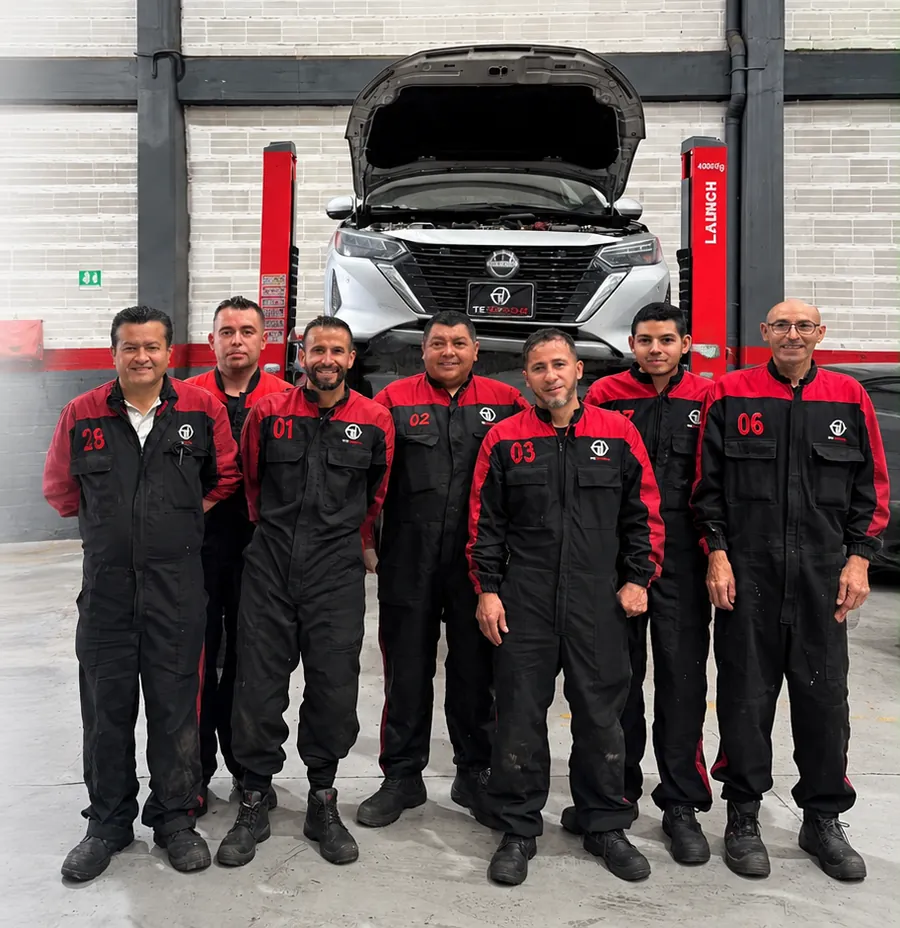
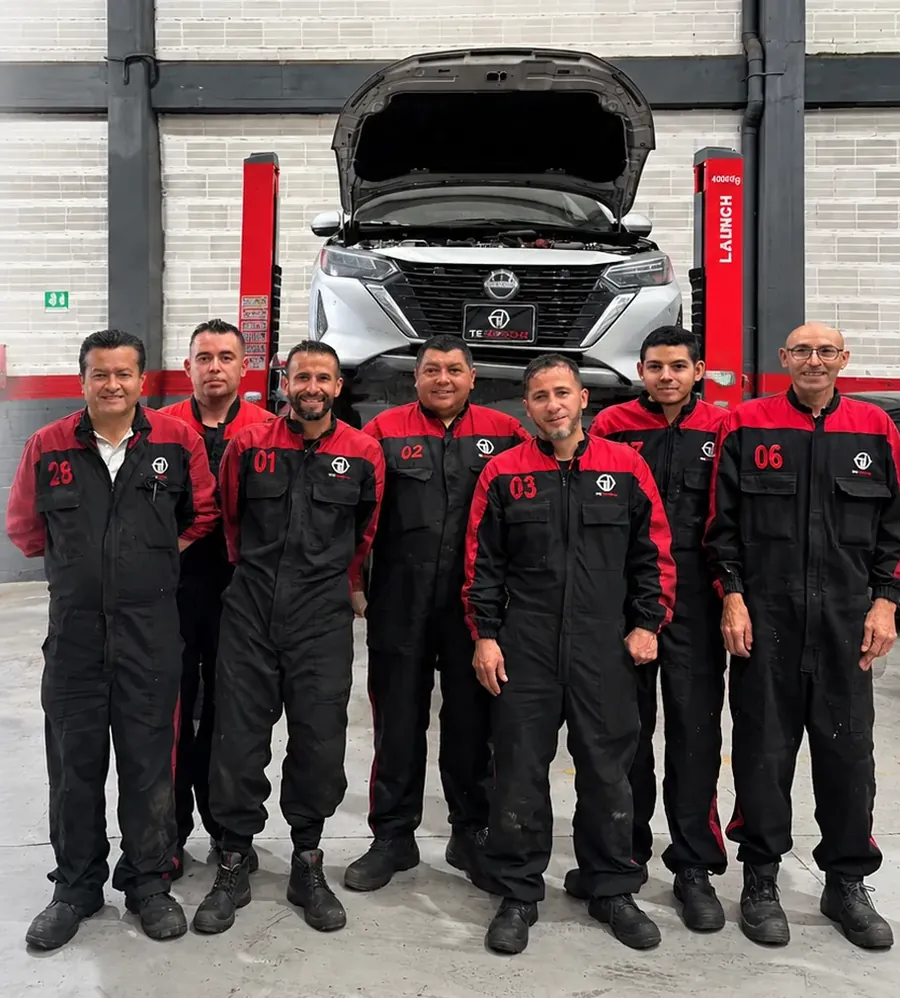
Equipo: fuera el velo del borde derecho, los dos lados iguales
Me habia pasado. El velo blanco dejaba el lado derecho mas claro que el
izquierdo, que no lleva ninguno, y por eso se veia mas difuminado.

Medi los dos bordes con el velo en cero y el derecho ya salia +16 mas
claro que el izquierdo: el promedio de 150 con el que calcule el velo
antes era solo a la altura de los cuerpos, donde esta el carro en sombra.
Sobre la banda entera no hacia falta aclarar nada.

Asi que el carro oscuro sale del recorte en vez de taparse con blanco,
que es la unica forma de que los dos bordes se vean igual: cualquier velo,
por suave que sea, deja ese lado mas claro. Tambien quito algo de pared
por la izquierda para que el grupo quede centrado.

El recorte nuevo sale de equipo-fondo.webp y no de la version chica: el
recorte movil viejo resulto ser (820,0)-(1800,1010) de la grande, hallado
buscando el mejor calce (error medio 2,8/255), asi que no hay que volver
a comprimir algo ya comprimido. Queda 900x998, banda 110.93vw.

Medido de 360 a 540px, mirando solo la mitad de abajo de la banda para no
contar el velo de arriba que si va a proposito: 0px de blanco en los dos
bordes. Escritorio sin tocar.

Claude-Session: https://claude.ai/code/session_014GMneRGxYmBqRQP8rwtT9y

diff --git a/site/assets/style.css b/site/assets/style.css
@@ -343,7 +343,11 @@ body{padding-top:calc(var(--nav-h) + var(--aviso-h,0px))}
      de .hero, asi que le gana y volvia a pintar la foto de escritorio
      detras del texto, encima de la banda. */
   .hero-equipo{
-    --banda:min(103.11vw, 520px);
+    /* 110.93vw es alto/ancho del recorte movil. A los lados NO lleva velo:
+       el carro en sombra que quedaba a la derecha se saco del recorte, que
+       es la unica forma de que los dos bordes se vean igual. Un velo
+       blanco, por suave que sea, deja ese lado mas claro que el otro. */
+    --banda:min(110.93vw, 520px);
     background-image:none;
     /* en Equipo la banda se queda ABAJO, al contrario que en el inicio:
        hay que deshacer el relleno de arriba que puso el bloque de .hero */
@@ -355,15 +359,9 @@ body{padding-top:calc(var(--nav-h) + var(--aviso-h,0px))}
     background-image:
       /* el velo de arriba sube menos que en el inicio: aqui hay caras */
       linear-gradient(180deg,#fff 0,rgba(255,255,255,0) 20%),
-      /* y el borde derecho tambien se difumina: ahi la foto termina en un
-         carro en sombra y ese bloque oscuro cortado en seco cantaba. El
-         carro ocupa el 4% del ancho y justo ahi empieza la manga del
-         ultimo mecanico, asi que el velo se apaga al 8%: tapa el carro y
-         a el solo le pasa una neblina por el borde. */
-      linear-gradient(270deg,#fff 0,rgba(255,255,255,.96) 2%,rgba(255,255,255,0) 8%),
       url("equipo-fondo-movil.webp");
-    background-size:100% 100%, 100% 100%, cover;
-    background-position:center top, center top, center top;
+    background-size:100% 100%, cover;
+    background-position:center top, center top;
   }
 }
 
